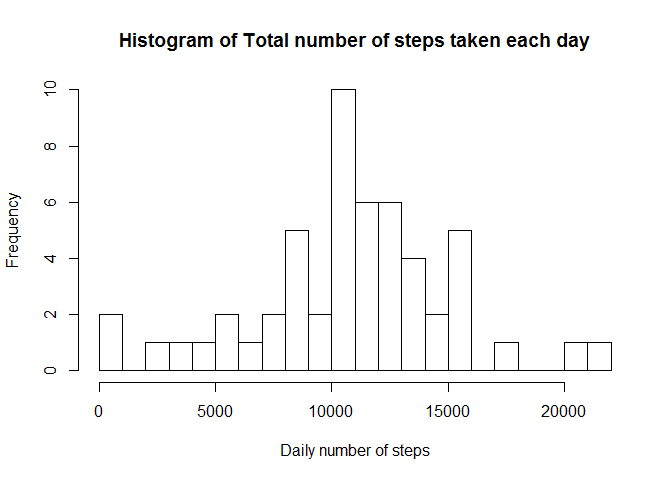
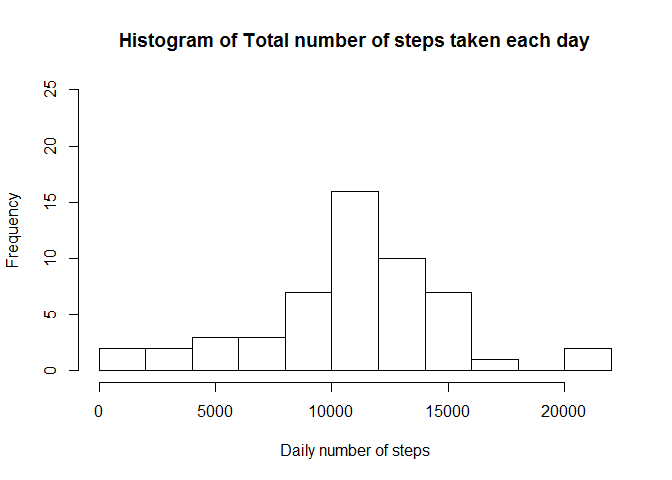
3/4

diff --git a/PA1_template.html b/PA1_template.html
@@ -58,25 +58,31 @@ if (window.hljs && document.readyState && document.readyState === "complete") {
 <p>Author: Frederic Grenier (mitienka)</p>
 <div id="loading-and-preprocessing-the-data" class="section level2">
 <h2>Loading and preprocessing the data</h2>
-<pre class="r"><code>        activitydata &lt;- read.csv(unz(&quot;activity.zip&quot;,&quot;activity.csv&quot;))</code></pre>
+<pre class="r"><code>        # load the data into a data frame
+        activitydata &lt;- read.csv(unz(&quot;activity.zip&quot;,&quot;activity.csv&quot;))
+        # convert the date from factor to date class
+        activitydata$date &lt;- as.Date(activitydata$date, &quot;%Y-%m-%d&quot;)</code></pre>
 </div>
 <div id="what-is-mean-total-number-of-steps-taken-per-day" class="section level2">
 <h2>What is mean total number of steps taken per day?</h2>
 <pre class="r"><code>        library(plyr)
         dailysteps &lt;- ddply(activitydata,.(date),summarize,dailytotal=sum(steps))
 
-        hist(dailysteps$dailytotal, breaks=20, main=&quot;Histogram of Total number of steps taken each day&quot;, 
-             xlab=&quot;Daily number of steps&quot;)        </code></pre>
[1 lines of base64/hex data omitted]
+        hist(dailysteps$dailytotal, breaks=12, main=&quot;Histogram of Total number of steps taken each day&quot;, 
+             xlab=&quot;Daily number of steps&quot;, ylim=c(0,25))        </code></pre>
[1 lines of base64/hex data omitted]
 <pre class="r"><code>        meansteps &lt;- mean(dailysteps$dailytotal,na.rm=TRUE)
         mediansteps &lt;- median(dailysteps$dailytotal,na.rm=TRUE)</code></pre>
-<p>The mean total number of steps taken per day is : <strong>10766.19</strong><br /> The median total number of steps taken per day is : <strong>10765</strong></p>
+<p>The mean total number of steps taken per day is : <strong>10766.189</strong><br /> The median total number of steps taken per day is : <strong>10765</strong></p>
 </div>
 <div id="what-is-the-average-daily-activity-pattern" class="section level2">
 <h2>What is the average daily activity pattern?</h2>
-<pre class="r"><code>        intervalsteps &lt;- ddply(activitydata,.(interval),summarize,intervalmean=mean(steps,na.rm=TRUE))
-        plot(intervalsteps$interval,intervalsteps$intervalmean,type=&quot;l&quot;,main=&quot;&quot;,xlab=&quot;Interval&quot;,ylab=&quot;Average number of steps&quot;)</code></pre>
[1 lines of base64/hex data omitted]
+<pre class="r"><code>        intervalsteps &lt;- ddply(activitydata,.(interval),summarize,
+                               intervalmean=mean(steps,na.rm=TRUE))
+        plot(intervalsteps$interval,intervalsteps$intervalmean,type=&quot;l&quot;,main=&quot;&quot;,
+             xlab=&quot;Interval&quot;, xlim=c(0,2400), xaxt=&quot;n&quot;, ylab=&quot;Average number of steps&quot;)
+        axis(1,at=seq(0,2400,by=300))</code></pre>
[1 lines of base64/hex data omitted]
 <pre class="r"><code>        intervalMaxAverage &lt;- intervalsteps[intervalsteps$intervalmean==max(intervalsteps$intervalmean),]$interval</code></pre>
 <p>The 5-minute interval containing the maximum number of steps, averaged across all days, is interval <strong>835</strong></p>
 </div>
@@ -90,6 +96,39 @@ if (window.hljs && document.readyState && document.readyState === "complete") {
 </div>
 <div id="filling-strategy" class="section level3">
 <h3>Filling strategy</h3>
+<p>Since there is 8 entire days with missing values, we will use the mean of the 5-minute interval to fill the rows where no values were recordered.</p>
+<p>The mean values for 5-minute interval is already stored in the <em>intervalsteps</em> data frame.</p>
+<pre class="r"><code># For each row of the data frame with NA in steps, replace it with the 
+# corresponding interval mean value
+        fillNA &lt;- function(data,values){
+            b &lt;- 0
+                for(i in 1:nrow(data)){
+                    if(is.na(data[i,]$steps)){
+                  data[i,]$steps &lt;- values[values$interval==data[i,]$interval,]$intervalmean
+                  b &lt;- b+1
+                }
+            }
+           cat(b, &quot;rows updated.&quot;)
+           data
+        }  
+
+        filleddata &lt;-fillNA(activitydata,intervalsteps)</code></pre>
+<pre><code>## 2304 rows updated.</code></pre>
+<p>The new dataset with missing data filled in is <em>filleddata</em></p>
+</div>
+<div id="impact-of-imputing-missing-values" class="section level3">
+<h3>Impact of imputing missing values</h3>
+<pre class="r"><code>        library(plyr)
+        daystepsFilled &lt;- ddply(filleddata,.(date),summarize,dailytotal=sum(steps))
+
+        hist(daystepsFilled$dailytotal, breaks=12, main=&quot;Histogram of Total number of steps taken each day&quot;, 
+             xlab=&quot;Daily number of steps&quot;, ylim=c(0,25))        </code></pre>
[1 lines of base64/hex data omitted]
+<pre class="r"><code>        meanstepsF &lt;- mean(daystepsFilled$dailytotal,na.rm=TRUE)
+        medianstepsF &lt;- median(daystepsFilled$dailytotal,na.rm=TRUE)</code></pre>
+<p>Using the new dataset, the mean total number of steps taken per day is : <strong>10766.189</strong><br />The new median total number of steps taken per day is : <strong>10766.189</strong></p>
+<p>The histogram remain similar except for the The days with the data filled in have a total number of steps equal to the average number of steps in the original data set.<br />Thus, the mean remains the same as we have replaced days not accounted for with days having a total number of steps equal to the daily mean. The median is now equal to the mean.</p>
+<p>Our method to fill in missing data increases the</p>
 </div>
 </div>
 <div id="are-there-differences-in-activity-patterns-between-weekdays-and-weekends" class="section level2">

diff --git a/PA1_template.md b/PA1_template.md
@@ -5,7 +5,10 @@ Author: Frederic Grenier (mitienka)
 
 
 ```r
+        # load the data into a data frame
         activitydata <- read.csv(unz("activity.zip","activity.csv"))
+        # convert the date from factor to date class
+        activitydata$date <- as.Date(activitydata$date, "%Y-%m-%d")
 ```
 
 ## What is mean total number of steps taken per day?  
@@ -15,8 +18,8 @@ Author: Frederic Grenier (mitienka)
         library(plyr)
         dailysteps <- ddply(activitydata,.(date),summarize,dailytotal=sum(steps))
 
-        hist(dailysteps$dailytotal, breaks=20, main="Histogram of Total number of steps taken each day", 
-             xlab="Daily number of steps")        
+        hist(dailysteps$dailytotal, breaks=12, main="Histogram of Total number of steps taken each day", 
+             xlab="Daily number of steps", ylim=c(0,25))        
 ```
 
 ![](PA1_template_files/figure-html/unnamed-chunk-2-1.png) 
@@ -26,15 +29,18 @@ Author: Frederic Grenier (mitienka)
         mediansteps <- median(dailysteps$dailytotal,na.rm=TRUE)
 ```
 
-  The mean total number of steps taken per day is : **10766.19**  
+  The mean total number of steps taken per day is : **10766.189**  
   The median total number of steps taken per day is : **10765**  
 
 ## What is the average daily activity pattern?  
 
 
 ```r
-        intervalsteps <- ddply(activitydata,.(interval),summarize,intervalmean=mean(steps,na.rm=TRUE))
-        plot(intervalsteps$interval,intervalsteps$intervalmean,type="l",main="",xlab="Interval",ylab="Average number of steps")
+        intervalsteps <- ddply(activitydata,.(interval),summarize,
+                               intervalmean=mean(steps,na.rm=TRUE))
+        plot(intervalsteps$interval,intervalsteps$intervalmean,type="l",main="",
+             xlab="Interval", xlim=c(0,2400), xaxt="n", ylab="Average number of steps")
+        axis(1,at=seq(0,2400,by=300))
 ```
 
 ![](PA1_template_files/figure-html/unnamed-chunk-3-1.png) 
@@ -43,7 +49,8 @@ Author: Frederic Grenier (mitienka)
         intervalMaxAverage <- intervalsteps[intervalsteps$intervalmean==max(intervalsteps$intervalmean),]$interval
 ```
 
-  The 5-minute interval containing the maximum number of steps, averaged across all days, is interval **835**  
+  The 5-minute interval containing the maximum number of steps, averaged across 
+  all days, is interval **835**  
 
 
 ## Imputing missing values  
@@ -56,7 +63,68 @@ Author: Frederic Grenier (mitienka)
 ```
   There is 2304 rows with missing data.
 
-### Filling strategy
+### Filling strategy  
+Since there is 8 entire days with missing values, we will use the mean of the 
+5-minute interval to fill the rows where no values were recordered.
+
+The mean values for 5-minute interval is already stored in the *intervalsteps* data frame.
+
+
+```r
+# For each row of the data frame with NA in steps, replace it with the 
+# corresponding interval mean value
+        fillNA <- function(data,values){
+            b <- 0
+                for(i in 1:nrow(data)){
+        	        if(is.na(data[i,]$steps)){
+        		  data[i,]$steps <- values[values$interval==data[i,]$interval,]$intervalmean
+        		  b <- b+1
+        		}
+        	}
+           cat(b, "rows updated.")
+           data
+        }  
+
+        filleddata <-fillNA(activitydata,intervalsteps)
+```
+
+```
+## 2304 rows updated.
+```
+
+The new dataset with missing data filled in is *filleddata*  
+  
+### Impact of imputing missing values
+
+
+```r
+        library(plyr)
+        daystepsFilled <- ddply(filleddata,.(date),summarize,dailytotal=sum(steps))
+
+        hist(daystepsFilled$dailytotal, breaks=12, main="Histogram of Total number of steps taken each day", 
+             xlab="Daily number of steps", ylim=c(0,25))        
+```
+
+![](PA1_template_files/figure-html/unnamed-chunk-6-1.png) 
+
+```r
+        meanstepsF <- mean(daystepsFilled$dailytotal,na.rm=TRUE)
+        medianstepsF <- median(daystepsFilled$dailytotal,na.rm=TRUE)
+```
+Using the new dataset, the mean total number of steps taken per day is : 
+**10766.189**  
+The new median total number of steps taken per day is : 
+**10766.189**  
+  
+  
+The histogram remain similar except for the
+The days with the data filled in have a total number of steps equal to the 
+average number of steps in the original data set.  
+Thus, the mean remains the same as we have replaced days not accounted for with
+days having a total number of steps equal to the daily mean.
+The median is now equal to the mean.
+
+Our method to fill in missing data increases the 
 
 
 
